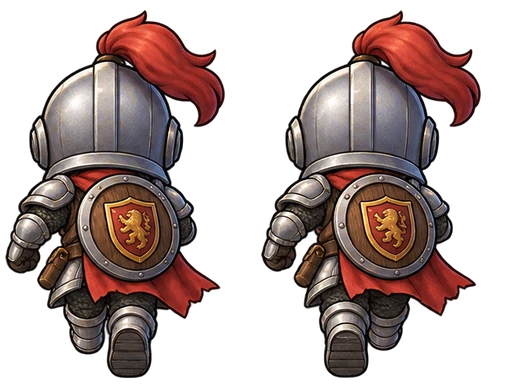
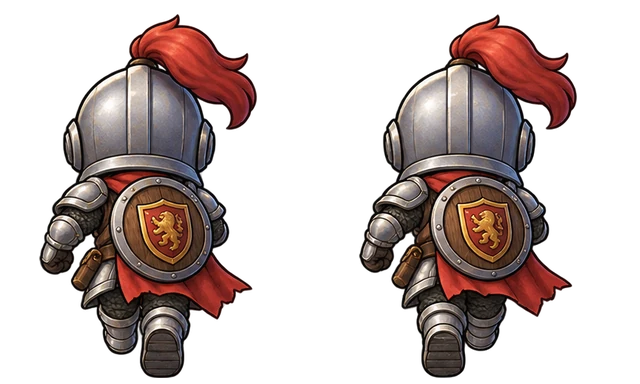
Add files via upload

diff --git a/index.html b/index.html
@@ -2966,7 +2966,7 @@ function mcSkinBody(id, fallback, opt){
 function charSprite(id){
   const t = TrapArt.tex["char-"+id];
   if(!t) return null;
-  const H = 2.25, W = H*(256/384);
+  const H = 2.25, W = H*(320/384);          // 칸 320x384
   const geo = new THREE.PlaneGeometry(W,H); geo.translate(0,H/2,0);
   const tex = t.clone(); tex.needsUpdate = true;
   tex.wrapS = tex.wrapT = THREE.ClampToEdgeWrapping;

diff --git a/versus.html b/versus.html
@@ -2631,7 +2631,7 @@ function mcSkinBody(id, fallback, opt){
 function charSprite(id){
   const t = TrapArt.tex["char-"+id];
   if(!t) return null;
-  const H = 2.25, W = H*(256/384);
+  const H = 2.25, W = H*(320/384);          // 칸 320x384
   const geo = new THREE.PlaneGeometry(W,H); geo.translate(0,H/2,0);
   const tex = t.clone(); tex.needsUpdate = true;
   tex.wrapS = tex.wrapT = THREE.ClampToEdgeWrapping;

diff --git a/sw.js b/sw.js
@@ -1,6 +1,6 @@
 /* HY ENG 서비스워커 — 게임 파일을 캐시해 두 번째부터는 오프라인에서도 실행됩니다.
    게임을 수정한 뒤에는 아래 VERSION 숫자를 꼭 올리세요. 그래야 새 버전이 반영됩니다. */
-const VERSION = "hyeng-v95";
+const VERSION = "hyeng-v96";
 const CORE = [
   "./",
   "./index.html",
